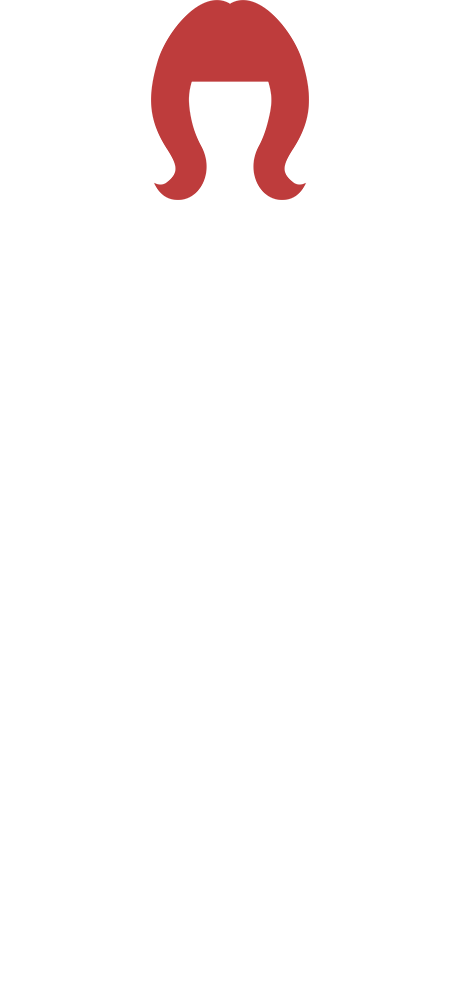
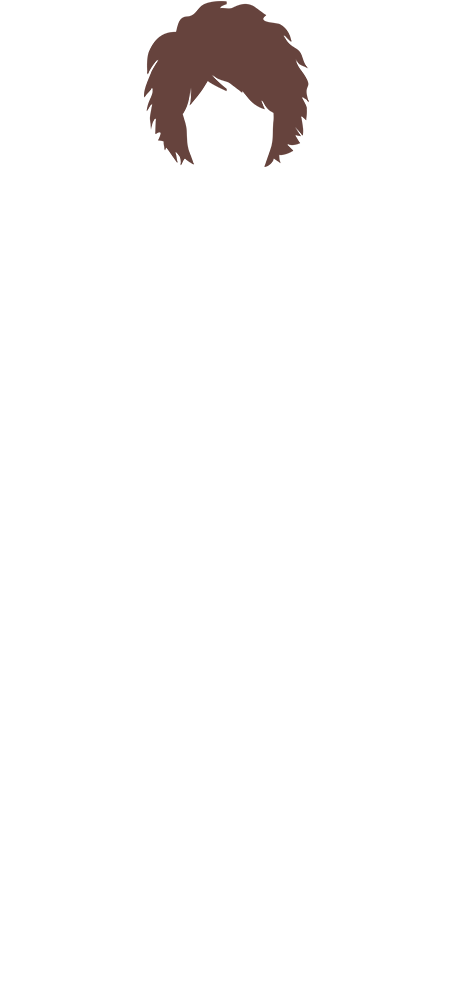
customizer

Changed region(s): [[0.3043, 0.0, 0.6696, 0.217]]

diff --git a/js/script.js b/js/script.js
@@ -1,10 +1,39 @@
+let debug = true;
+
+class Candidate {
+	constructor(name = 'Иванов Иван Иванович', age = 40, sex = true, politics = 'Левые', bio = 'Суперкандидат!', skin = 2, clothes = 1, hair = 2) {
+		this.name = name;
+		this.age = age;
+		this.sex = sex;
+		this.politics = politics;
+		this.bio = bio;
+		this.skin = skin;
+		this.clothes = clothes;
+		this.hair = hair;
+	}//constructor
+
+}//Candidate
+
 window.addEventListener('DOMContentLoaded', function() {
-	let customPage = document.getElementsByClassName('custom')[0],
+	let OurCandidate = new Candidate();
+			customPage = document.getElementsByClassName('custom')[0],
 			mainPage = document.getElementsByClassName('main')[0],
-			overlay = document.getElementsByClassName('overlay')[0];
+			overlay = document.getElementsByClassName('overlay')[0],
+			nameInput = document.getElementById('name'),
+			ageInput = document.getElementById('age'),
+			sexMale = document.getElementById('male'),
+			sexFemale = document.getElementById('female'),
+			polInput = document.getElementById('select'),
+			bioInput = document.getElementById('bio'),
+			skin = document.getElementById('person-skin'),
+			clothes = document.getElementById('person-clothes'),
+			hair = document.getElementById('person-hair'),
+			sexOffset = 0,//смещение в картинках по полу
+			hairOffset = 0,//смещение в волосах по полу
+			clothesOffset = 0;//смещение в одежде по полу
 
 // create button -----------------------------------
-	document.getElementById('popup-btn').addEventListener('click', () => {
+//	document.getElementById('popup-btn').addEventListener('click', () => {
 		mainPage.style.display = 'none';
 		overlay.style.display = 'none';
 		customPage.style.display = 'flex';
@@ -12,6 +41,280 @@ window.addEventListener('DOMContentLoaded', function() {
 		for (let i = 0; i < customPage.childNodes.length; i++) {
 			if (customPage.childNodes[i].nodeType == 1) customPage.childNodes[i].style.display = 'block';	
 		}
-	});//createButton_click
+		showCustomCandidate();
+//	});//createButton.click
+
+// customizer -----------------------------------
+	function setSkin(n) {
+		skin.style.backgroundImage = 'url("img/skin/skin-'+n+'.png")';
+		OurCandidate.skin = n;
+	}//setSkin
+	
+	function setClothes(n) {
+		clothes.style.backgroundImage = 'url("img/clothes/construct/clothes-'+n+'.png")';
+		OurCandidate.clothes = n;
+	}//setSkin
+
+	function setHair(n) {
+		hair.style.backgroundImage = 'url("img/hair/construct/hair-'+n+'.png")';
+		OurCandidate.hair = n;
+	}//setSkin
+
+	function showCustomCandidate() {
+		nameInput.value = OurCandidate.name;
+		ageInput.value = OurCandidate.age;
+		if (OurCandidate.sex) {
+			sexMale.setAttribute('checked', '');
+		} else {
+			sexFemale.setAttribute('checked', '');
+		}
+		polInput.value = OurCandidate.politics;
+		bioInput.value = OurCandidate.bio;
+		setSkin(OurCandidate.skin);
+		setClothes(OurCandidate.clothes);
+		setHair(OurCandidate.hair);
+		if (debug) console.log('show');
+		if (debug) console.log(OurCandidate);
+	}//showCustomCandidate
+
+	function setCustomCandidate() {
+		OurCandidate.name = nameInput.value;
+		OurCandidate.age = ageInput.value;
+		OurCandidate.sex = sexMale.checked;
+		if (OurCandidate.sex) {
+			sexOffset = 0;
+		} else {
+			sexOffset = 3;
+		}
+		OurCandidate.politics = polInput.value;
+		OurCandidate.bio = bioInput.value;
+		//setSkin(OurCandidate.skin);
+		//setClothes(OurCandidate.clothes);
+		//setHair(OurCandidate.hair);
+		if (debug) console.log('set');
+		if (debug) console.log(OurCandidate);
+	}//setCustomCandidate
+
+// customizer sliders -----------------------------------
+	let skinSlider = document.querySelector(".skin"),
+			skinSlides = document.querySelectorAll(".skin-color"),
+			skinSlideIndex = OurCandidate.skin - sexOffset;
+			skinPrevButton = skinSlider.querySelector(".prev"),
+			skinNextButton = skinSlider.querySelector(".next"),
+			hairSlider = document.querySelector(".hair"),
+			hairSlides = document.querySelectorAll(".hair-style"),
+			hairAllSlides = document.querySelectorAll('.hair>div'),
+			hairSlideIndex = OurCandidate.hair - sexOffset;
+			hairPrevButton = hairSlider.querySelector(".prev"),
+			hairNextButton = hairSlider.querySelector(".next"),
+			clothesSlider = document.querySelector(".clothes"),
+			clothesSlides = document.querySelectorAll(".clothes-style"),
+			clothesSlideIndex = OurCandidate.clothes - sexOffset;
+			clothesPrevButton = clothesSlider.querySelector(".prev"),
+			clothesNextButton = clothesSlider.querySelector(".next");
+
+// skinSlider -----------------------------------
+	showSkinSlides(skinSlideIndex + sexOffset);
+
+	function showSkinSlides(n) {
+		if (n > skinSlides.length) {
+			skinSlideIndex = 1;
+			//if (!OurCandidate.sex) { OurCandidate.skin += 3; }
+		}//if
+
+		if (n < 1) {
+			skinSlideIndex = skinSlides.length;
+			//if (!OurCandidate.sex) { OurCandidate.skin += 3; }
+		}//if
+
+		for (let i = 0; i < skinSlides.length; i++) {
+			skinSlides[i].style.display = 'none';
+		}//for
+
+		skinSlides[skinSlideIndex - 1].style.display = 'flex';
+	}//showSkinSlides
+
+	function plusSkinSlides(n) {
+		showSkinSlides(skinSlideIndex += n);
+		OurCandidate.skin = skinSlideIndex + sexOffset;
+		setSkin(OurCandidate.skin);
+	}//plusSkinSlides
+
+	skinPrevButton.addEventListener('click', () => {
+		plusSkinSlides(-1);
+		if (debug) console.log('skinPrevButton skin=' + OurCandidate.skin + ', i=' + skinSlideIndex);
+	});//skinPrevButton.click
+
+	skinNextButton.addEventListener('click', () => {
+		plusSkinSlides(1);
+		if (debug) console.log('skinNextButton skin=' + OurCandidate.skin + ', i=' + skinSlideIndex);
+	});//skinPrevButton.click
+
+// hairSlider -----------------------------------
+	showHairSlides(hairSlideIndex + hairOffset);
+
+	function showHairSlides(n) {
+		if (n > hairSlides.length) {
+			hairSlideIndex = 1;
+			//if (!OurCandidate.sex) { OurCandidate.skin += 3; }
+		}//if
+
+		if (n < 1) {
+			hairSlideIndex = hairSlides.length;
+			//if (!OurCandidate.sex) { OurCandidate.skin += 3; }
+		}//if
+
+		for (let i = 0; i < hairSlides.length; i++) {
+			hairSlides[i].style.display = 'none';
+		}//for
+
+		hairSlides[hairSlideIndex - 1].style.display = 'flex';
+	}//showHairSlides
+
+	function plusHairSlides(n) {
+		showHairSlides(hairSlideIndex += n);
+		OurCandidate.hair = hairSlideIndex;// + hairOffset;
+		setHair(OurCandidate.hair);
+	}//plusHairSlides
+
+	hairPrevButton.addEventListener('click', () => {
+		if (OurCandidate.sex) {
+			if (hairSlideIndex < 1) hairSlideIndex = 3;
+		} else {
+			if (hairSlideIndex < 4) hairSlideIndex = 6;
+		}
+		plusHairSlides(-1);
+		if (debug) console.log('hairPrevButton hair=' + OurCandidate.hair + ', i=' + hairSlideIndex);
+	});//hairPrevButton.click
+
+	hairNextButton.addEventListener('click', () => {
+		if (OurCandidate.sex) {
+			if (hairSlideIndex > 3) hairSlideIndex = 0;
+		} else {
+			if (hairSlideIndex > 6) hairSlideIndex = 4;
+		}
+		plusHairSlides(1);
+		if (debug) console.log('hairNextButton hair=' + OurCandidate.hair + ', i=' + hairSlideIndex);
+	});//hairPrevButton.click
+
+// clothesSlider -----------------------------------
+/*	showClothesSlides(clothesSlideIndex + sexOffset);
+
+	function showClothesSlides(n) {
+		if (n > clothesSlides.length) {
+			clothesSlideIndex = 1;
+			//if (!OurCandidate.sex) { OurCandidate.skin += 3; }
+		}//if
+
+		if (n < 1) {
+			clothesSlideIndex = clothesSlides.length;
+			//if (!OurCandidate.sex) { OurCandidate.skin += 3; }
+		}//if
+
+		for (let i = 0; i < clothesSlides.length; i++) {
+			clothesSlides[i].style.display = 'none';
+		}//for
+
+		clothesSlides[clothesSlideIndex - 1].style.display = 'flex';
+	}//showClothesSlides
+
+	function plusClothesSlides(n) {
+		showClothesSlides(clothesSlideIndex += n);
+		OurCandidate.clothes = clothesSlideIndex + sexOffset;
+		setClothes(OurCandidate.clothes);
+	}//plusClothesSlides
+
+	clothesPrevButton.addEventListener('click', () => {
+		plusClothesSlides(-1);
+		console.log('clothesPrevButton cloth=' + OurCandidate.clothes + ', i=' + clothesSlideIndex);
+	});//clothesPrevButton.click
+
+	clothesNextButton.addEventListener('click', () => {
+		plusClothesSlides(1);
+		console.log('clothesNextButton cloth=' + OurCandidate.clothes + ', i=' + clothesSlideIndex);
+	});//clothesPrevButton.click*/
+
+	function resetHair() {
+		let hairDivs = document.querySelectorAll('.hair>div'),
+				hair = document.querySelector('.hair');
+		if (hairSlides.length < 10) {
+			for (let j = 0; j < hairDivs.length; j++) {
+				hairDivs[j].remove();
+			}//for
+
+			for (let j = 0; j < hairAllSlides.length; j++) {
+				hair.appendChild(hairAllSlides[j]);
+			}//for
+		}//if
+		if (debug) console.log('resetHair');
+	}//resetHair
+
+// sex change -----------------------------------
+	let input = document.querySelectorAll(".radio>input");
+	for (let i = 0; i < input.length; i++) {
+		input[i].addEventListener('change', function() {
+			OurCandidate.sex = sexMale.checked;
+			if (OurCandidate.sex) {
+				sexOffset = 0;
+				hairOffset = 0;
+				OurCandidate.skin = OurCandidate.skin - 3;
+				OurCandidate.hair = OurCandidate.hair - 4;
+				//OurCandidate.clothes = OurCandidate.clothes - 3;
+				resetHair();
+				/*for (let j = 0; j < hairSlides.length; j++) {
+					if (j>=4) hairSlides[j].remove();
+				}//for*/
+				hairSlideIndex = 0;
+				showHairSlides(OurCandidate.hair);
+			} else {
+				sexOffset = 3;
+				hairOffset = 4;
+				OurCandidate.skin = OurCandidate.skin + sexOffset;
+				OurCandidate.hair = OurCandidate.hair + hairOffset;
+				//OurCandidate.clothes = OurCandidate.clothes + 3;
+				resetHair();
+				/*for (let j = 0; j < hairSlides.length; j++) {
+					if (j<4) hairSlides[j].remove();
+				}//for*/
+				hairSlideIndex = 6;
+				showHairSlides(OurCandidate.hair);
+			}//if
+			showSkinSlides(skinSlideIndex);
+			//showHairSlides(hairSlideIndex);
+			setSkin(OurCandidate.skin);
+			setClothes(OurCandidate.clothes);
+			setHair(OurCandidate.hair);
+			if (debug) console.log(hairSlides);
+			if (debug) console.log(hairAllSlides);
+			if (debug) console.log(this.getAttribute('value') + ' hair=' + OurCandidate.hair + ', i=' + hairSlideIndex);
+			//console.log(this.getAttribute('value') + ' cloth=' + OurCandidate.clothes + ', i=' + clothesSlideIndex);
+		});
+	}//for
+/*	document.querySelector(".radio").addEventListener('change', () => {
+		sexOffset = 0;
+		skinSlideIndex = OurCandidate.skin - sexOffset;
+		setSkin(1);
+		setClothes(1);
+		setHair(1);
+		showSkinSlides(skinSlideIndex);
+		console.log('male radio ' + OurCandidate.skin + ', ' + skinSlideIndex);
+	});
+	sexFemale.addEventListener('change', () => {
+		sexOffset = 3;
+		setSkin(4);
+		setClothes(4);
+		setHair(4);
+		skinSlideIndex = 1;
+		showSkinSlides(skinSlideIndex);
+		console.log('female radio ' + OurCandidate.skin + ', ' + skinSlideIndex);
+	});*/
+
+// ready button -----------------------------------
+	document.getElementById('ready').addEventListener('click', () => {
+		setCustomCandidate();
+		showCustomCandidate();
+		//console.log(skinSlider);
+		
+	});//readyButton.click
 
 });//DOMContentLoaded

diff --git a/index.html b/index.html
@@ -76,9 +76,9 @@
 			<input type="text" id="age">
 			<div class="radio">
 				<input value="Мужской" id="male" checked name="sex" type="radio">
-				<label for="sex">Мужчина</label>
+				<label for="male">Мужчина</label>
 				<input value="Женский" id="female" name="sex" type="radio">
-				<label for="sex">Женщина</label>
+				<label for="female">Женщина</label>
 			</div>
 			<select id="select">
 				<option value="Либеральные">Либеральные</option>
@@ -127,6 +127,7 @@
 					<div class="hair-style hair-style-4"></div>
 					<div class="hair-style hair-style-5"></div>
 					<div class="hair-style hair-style-6"></div>
+					<div class="hair-style hair-style-7"></div>
 				<div class="next">
 					<i class="flaticon-right-arrow"></i>
 				</div>

diff --git a/css/style.css b/css/style.css
@@ -622,6 +622,15 @@
   border-radius: 10px;
 }
 
+.custom-style .hair-style-7 {
+  display: none;
+  width: 160px;
+  height: 80px;
+  background: #f2f2f2 url("../img/hair/slide/hair-7.png") center no-repeat;
+  background-size: 40%;
+  border-radius: 10px;
+}
+
 .custom-style .clothes-style-1 {
   width: 160px;
   height: 80px;
